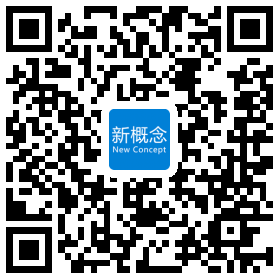
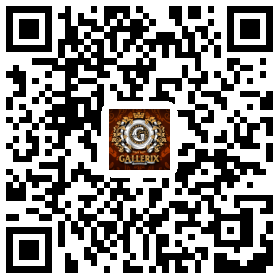
modify

diff --git a/index.html b/index.html
@@ -20,15 +20,15 @@
     <link rel="stylesheet" type="text/css" href="css/bootstrap.min.css"/>
     <link rel="stylesheet" type="text/css" href="css/global.css"/>
     <link rel="stylesheet" type="text/css" href="css/base.css"/>
-    <title>新概念英语视频和音频教程</title>
+    <title>Gallerix-Paintings Art Gallery</title>
 
 </head>
 <body>
 <div class="header margin-bottom60">
     <div class="container">
-        <h1 class="pull-left">新概念英语视频和音频教程</h1>
+        <h1 class="pull-left">Gallerix-Paintings Art Gallery</h1>
         <p class="pull-right">
-            更新于：2017-03-16        </p>
+            Updated：2017-05-17        </p>
     </div>
 </div>
 <div class="banxin">
@@ -38,7 +38,7 @@
     
     <!-- 只选择一种平台的时候 -->
             <div style="display:block;margin:0 auto;width:180px;" id="wx_btn1">
-            <a href="http://itunes.apple.com/cn/app/id1214871636?mt=8" style="display:block;margin:0 auto;width:180px;" >
+            <a href="http://itunes.apple.com/cn/app/id1236733173?mt=8" style="display:block;margin:0 auto;width:180px;" >
                 <img src="images/iph.png" alt="" class="center-block margin-bottom60"/>
             </a>
          </div>
@@ -46,41 +46,41 @@
 
                 <div class="qr1">
             <div class="text-center" style="margin-bottom:9px;">
-                或者用手机扫描下面的二维码安装<br>
+                Or use the phone to scan the following two-dimensional code to install<br>
             </div>
             <img src="images/qrcode.png" alt="" class="center-block margin-bottom60">
         </div>
             <hr class="margin-bottom60"/>
     <div class="desp">
-        <h2>应用介绍</h2>
+        <h2>App introduction</h2>
         <div class="dsp margin-bottom60">
             <section>
-                新概念英语（New Concept English）作为全世界最为经典的英语学习的宝典，以其严密的体系性、严谨的科学性、精湛的实用性、浓郁的趣味性深受英语学习者的青睐。<br>
+                Gallerix contains a lot of world famous painter works, an online art museum, the user can enjoy more than 10,000 painters of 160,000 works, more and more than you imagine. Gallerix has a lot of painter pictures, such as Van Gogh, Leviathan, Rubens, Ruben, Sargent, etc., more importantly, all the works of pictures are available, the purpose is to promote the art of painting, so that those who desire to visit the museum but can not visit have the online enjoyment of all the works of any artist in the world
 
-1、新概念英语第一册（基础班）
-学习重点：从 26 个英文字母、音标、语调开始学起，详细的介绍英语中的各种语法、句法、词法及句型结构知识，每篇课文内容均贴近现时生活的方方面面，其语言风趣幽默，每篇文章都配有漫画，文字形象生动。能极大的提高学生对英语的学习兴趣，练好第一册，是练好英语基本功的关键。<br>
 
-2、新概念英语第二册（初级班）
-学习重点：第二册是过渡，同时也是转变，它使学习者从一个会说日常英语的人，提高成为一个敢动笔进行基本写作的人。It is the very beginning of writing. 第二册以96 篇小故事为素材，培养学生听、说、读、写的基本能力，其优势在于扩充词汇量，统揽语法，结合实践，听说兼修。学完之后学习者能够运用地道句型与人进行交谈，其写作能力得到进一步提高。<br>
 
-3、新概念英语第三册（提高班）
-学习重点：第三册的文章全都是原汁原味的英文精品，语言优雅、凝练、句型工整而又富于变化，教材着重分析句子之间内在的逻辑关系，使学习者认识到句型的精炼、优美、实用与可模仿性，从而将其有机地运用于英语写作之中；其各种题材的短方与英语歌曲，将使你的听力得到进一步的提高。<br>
+Online Art Gallery  Huge collection of fine art reproductions
 
-4、新概念英语第四册（高级班）
-学习重点：第四册涵盖了文化、经济、哲学、艺术、体育、政治、美学、等三十多门学科门类，语言文字精美独到，句型结构复杂多变而又不失简洁酣畅。同时诸多文章里蕴涵着深厚的哲思、美学及西方文化独特的思维方式，学习者学完之后其阅读理解、听力、翻译水平将会达到较高水平。            </section>
+All our impressions, fantasies, architectural forms, objects, and landscapes miraculously find their display in the creative works of great masters and famous artists. It may be said without exaggeration that any art gallery saturates the viewer a mysterious flavor of high art and unique shades of the inner world of picture creator.
+
+Decorative, monumental, icon painting, cyclorama, miniature, and diorama – all that diversity gives its piece of the world, character and mood to everyone. Despite of this, the steps for creating of yet another reproduction of paintings by famous artists is still enigmatic and have a specific mysterious haze. Perhaps it is this that enables the viewer enthusiastically enjoy rich palette, unusual forms and sublime the depth of the work subject for each time.
+
+Being a true admirer of an artist, like the first time ever, you feel delight to watch how on the surface of the canvas new images and the relentless flow of paint reveal. The artist though breathes life into those paints and they are playfully falling to the canvas of a new creation, sometimes spreading widely and freely and sometimes splashing out and gently laying down with layers. Every brushstroke on reproductions of famous paintings creates a new element. It may be materialized in defiant and indefatigable nature of the ‘Storm off the coast of Nice’ by Ivan Aivazovsky, or soft and warm tones of the ‘Swiss landscape with horses’ by Alexei Savrasov.
+
+What's interesting is that any reproduction of the same master discovers new facets of his talent. The only crucial momentum is where the artist draws inspiration from creating a unique variation of the ancient, medieval or abstract lines. Painters in their work skillfully combine the last page of the mysterious past and unheralded present. Perhaps, therefore, art gallery gives an inspiration romantic pulse turned toward to the images of the past of figurative or traditional art.
+            </section>
         </div>
     </div>
     <hr class="margin-bottom60"/>
     <div class="desp">
-        <h2>主要功能</h2>
+        <h2>Main features</h2>
         <div class="dsp margin-bottom60">
-            <section>
-                1、最新全套四册教程，基础到高级全覆盖<br>2、全部视频教程，清晰讲解每个知识点<br>3、课程目录，清晰明了，学习进度，轻松掌握<br>4、课文有声同步，中英译文详细注解                </section>
+            <section></section>
         </div>
     </div>
     <hr class="margin-bottom60"/>
     <div>
-        <h2>应用截图</h2>
+        <h2>App screenshots</h2>
         <div class="table-responsive">
             <table class="table">
                 <tbody>
@@ -115,12 +115,12 @@
 </div>
 <div>
     <div class="footer" style="text-align: center;background: #fff;">
-        Copyright © blackberrychou 技术支持：<a href="mailto:blackberrychou@163.com" style="color:rgb(0, 128, 214);">jyz198701@sina.com</a>
+        Copyright © blackberrychou Technical support:<a href="mailto:blackberrychou@163.com" style="color:rgb(0, 128, 214);">jyz198701@sina.com</a>
     </div><!--/row-fluid-->
 </div>
 <div class="wxtip" id="JweixinTip">
     <span class="wxtip-icon"></span>
-    <p class="wxtip-txt">点击右上角<br>选择在其他浏览器中打开</p>
+    <p class="wxtip-txt">Click on the upper right corner<br>Choose to open in other browsers</p>
 </div>
 <script type="text/javascript" src="js/jquery-1.11.1.min.js"></script>
 <script type="text/javascript" src="js/bootstrap.min.js"></script>
